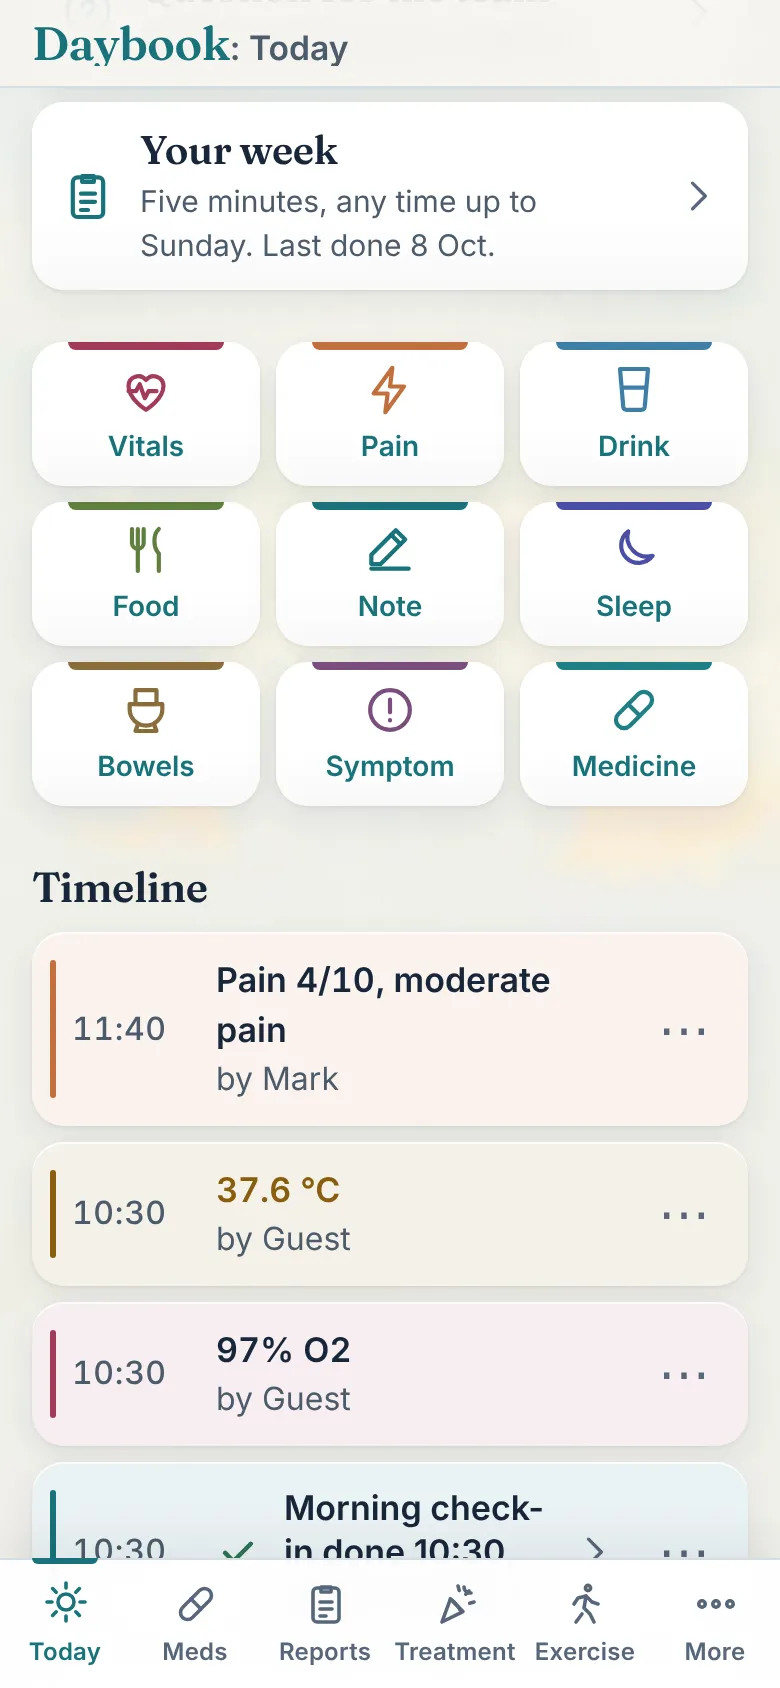
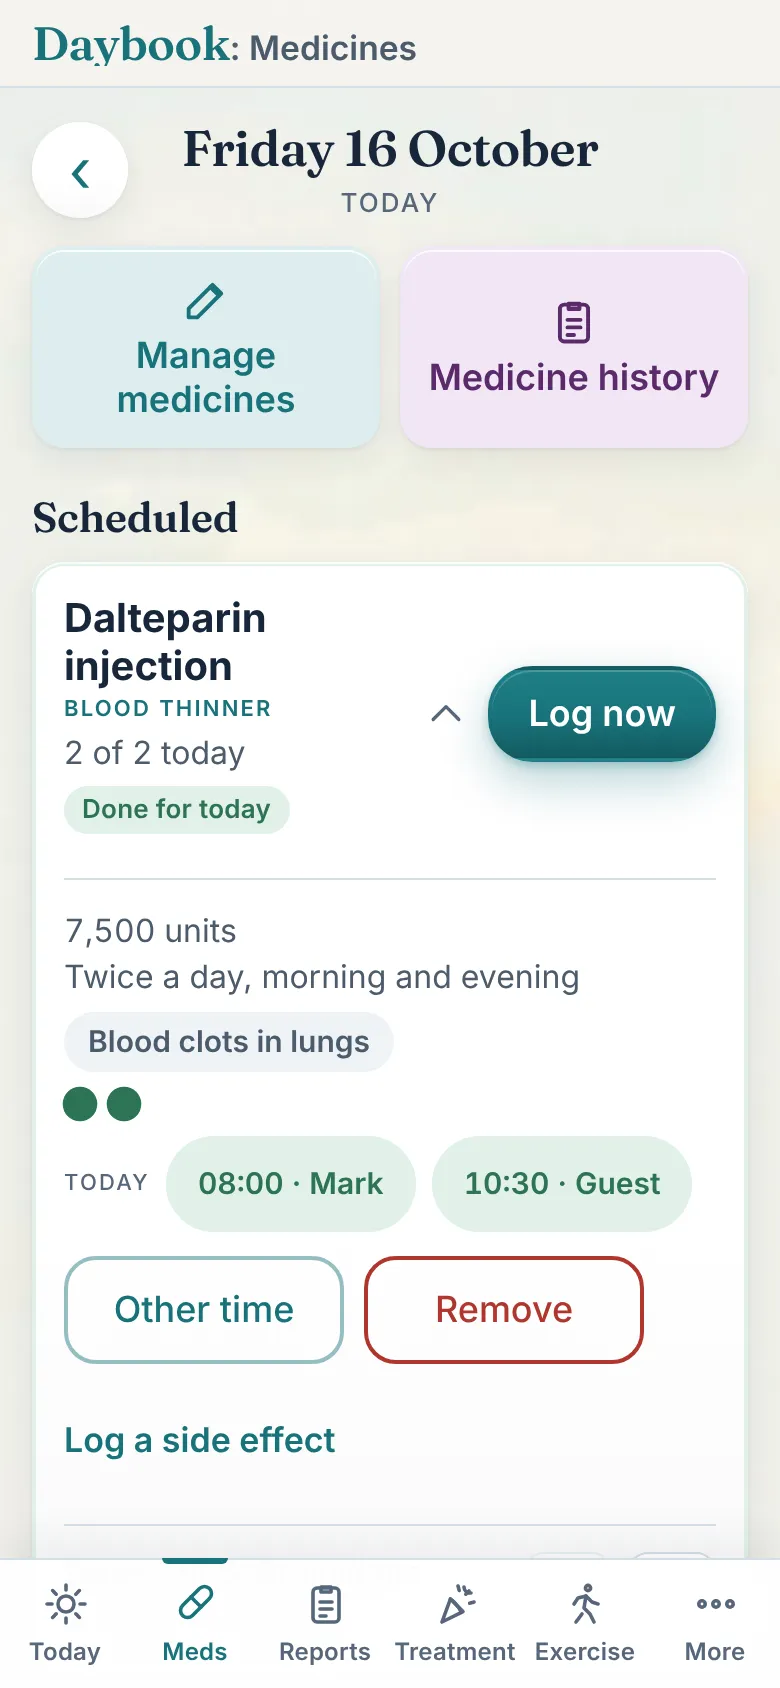
v305: a Mood tile in place of Medicine on Today
Logs a mood score between the check-ins, with a note; hollow points on
the Trends Mood chart. Doses are logged on the Meds tab. Guide retaken.

Claude-Session: https://claude.ai/code/session_019VY17MM1Pv81B6vJUTKu9b

Changed region(s): [[0.0308, 0.0, 0.9538, 0.9858], [0.2154, 0.9242, 0.2769, 0.9858], [0.9538, 0.4005, 0.9846, 0.4621]]

diff --git a/scripts.js b/scripts.js
@@ -13,7 +13,7 @@ import {
   query, where, orderBy, limit, onSnapshot, serverTimestamp, Timestamp, writeBatch, deleteField, runTransaction
 } from 'https://www.gstatic.com/firebasejs/10.12.2/firebase-firestore.js';
 
-const APP_VERSION = '304';
+const APP_VERSION = '305';
 /* The stage of the app (v132): 'Beta' until it is on the App Store and Google Play, then ''. Shown as a small pill on the
    opener and the four cover screens (never in the topbar, where it squeezed "Daybook: Treatment plan" off the end at 390px),
    after the version everywhere the version shows, and as one line on the App card and About
@@ -3003,6 +3003,7 @@ function entryTitle(e) {
     case 'nap': return [h('span', { class: 'val', text: fmtHm(e.value) }), h('span', { text: ' nap' })];
     case 'checkin': return [h('span', { text: checkinTitle(e.slot) })];
     case 'pain': return [h('span', { class: 'val', text: 'Pain ' + e.value + '/10' }), painBandWord(e.value) ? h('span', { text: ', ' + painBandWord(e.value).toLowerCase() }) : null];
+    case 'mood': return [h('span', { class: 'val', text: 'Mood ' + e.value + '/10' })];
     case 'symptom': return [h('span', { class: 'val', text: symptomLevel(e) }), e.grade == null && painBandWord(e.value, '') ? h('span', { text: ', ' + painBandWord(e.value, '').toLowerCase() }) : null];
     case 'bowel': {
       if (e.none) return [h('span', { text: e.stoma ? 'No stoma output' : 'No bowel movement' })];
@@ -3052,6 +3053,7 @@ function entrySub(e) {
   if (e.type === 'nap') { const d0 = entryDate(e); if (d0) bits.push(fmtTime(d0) + ' to ' + addMinutesHm(fmtTime(d0), e.value)); bits.push('A nap, kept apart from the night'); if (e.note) bits.push(e.note); }
   if (e.type === 'checkin') { const s = checkinSummary(e); if (s) bits.push(s); }
   if (e.type === 'pain' && e.note) bits.push(e.note);
+  if (e.type === 'mood') { bits.push('Logged between the check-ins'); if (e.note) bits.push(e.note); }
   if (e.type === 'symptom') { const c = causeOf(e); bits.push(c ? 'Side effect of ' + c.name + (e.sessionDay ? ' on ' + fmtDayShort(e.sessionDay) : '') : 'Symptom'); if (e.fromCheckin) bits.push('From the ' + slotWord(e.fromCheckin).toLowerCase() + ' check-in'); if (e.note) bits.push(e.note); }
   if (e.type === 'bowel') { const ts = bowelTypes(e); if (ts.length > 1) bits.push(ts.map((t) => bristolName(t)).join(', ')); const f = bowelFlagWords(e); if (f) bits.push(f); if (e.note) bits.push(e.note); }
   if (e.type === 'question') bits.push((isDietitianQ(e) ? 'Question for the dietitian' : isWellbeingQ(e) ? 'Question for the therapist' : isPainQ(e) ? 'Question for the pain team' : packOn('ibd') && isGastroQ(e) ? 'Question for the gastro team' : 'Question for the team') + (e.answered ? ', answered' : '') + (isDietitianQ(e) || isWellbeingQ(e) || isPainQ(e) ? '' : ' · ' + teamLabel(teamOf(e))));
@@ -3094,7 +3096,7 @@ function renderEntry(e) {
 }
 
 /* Types openAdd() can pre-fill and update in place, given the original entry */
-const EDITABLE_ENTRY_TYPES = ['food', 'drink', 'weight', 'note', 'question', 'bowel', 'symptom', 'pain', 'result', 'nap'];
+const EDITABLE_ENTRY_TYPES = ['food', 'drink', 'weight', 'note', 'question', 'bowel', 'symptom', 'pain', 'mood', 'result', 'nap'];
 
 function entryOptions(e) {
   const d = entryDate(e);
@@ -3126,7 +3128,7 @@ function entryOptions(e) {
   );
   openSheet(ENTRY_SHEET_TITLES[e.type] || 'Entry', body);
 }
-const ENTRY_SHEET_TITLES = { call: 'Call', result: 'Result', temp: 'Temperature', vitals: 'Vitals', weight: 'Weight', med: 'Medicine', drink: 'Drink', food: 'Food', note: 'Note', sleep: 'Sleep', nap: 'Nap', pain: 'Pain', bowel: 'Bowels', symptom: 'Symptom', question: 'Question for the team' };
+const ENTRY_SHEET_TITLES = { call: 'Call', result: 'Result', temp: 'Temperature', vitals: 'Vitals', weight: 'Weight', med: 'Medicine', drink: 'Drink', food: 'Food', note: 'Note', sleep: 'Sleep', nap: 'Nap', pain: 'Pain', mood: 'Mood', bowel: 'Bowels', symptom: 'Symptom', question: 'Question for the team' };
 /* One line per reading for the entry view, coloured with the same levels as Trends' tables */
 function readingRows(e) {
   if (e.type === 'temp') return [['Temperature', fmtTemp(e.value), tempClass(e.value) === 'is-red' ? 'red' : tempClass(e.value) === 'is-amber' ? 'amber' : null]];
@@ -4327,6 +4329,20 @@ function openAdd(type, editEntry, preset) {
     };
   }
 
+  /* Mood (v305): a mood score any time between the check-ins, like the Pain tile. Mark: "Meds has
+     its own tab", so this tile took the Medicine one's place on Today. */
+  if (type === 'mood') {
+    const sl = sliderBlock({ kind: 'slider', q: 'How is your mood right now?', low: '1 rough', high: '10 great' }, editEntry ? editEntry.value : null);
+    const moodNote = h('textarea', { rows: 3, placeholder: 'e.g. a good chat, worried about tomorrow' });
+    moodNote.value = (editEntry && editEntry.note) || '';
+    body.append(h('p', { class: 'wiz-q', text: 'How is your mood right now?' }), ...sl.nodes, field('Time', time), field('What is behind it? (optional)', moodNote), ...[speakButton(moodNote)].filter(Boolean));
+    getData = () => {
+      const v = sl.value();
+      if (v == null) return missing(sl.nodes.find((n) => n.type === 'range') || sl.nodes[0], 'Slide to a number first');
+      return { type: 'mood', value: v, note: moodNote.value.trim() };
+    };
+  }
+
   if (type === 'bowel') {
     /* The Bristol Stool Chart (the scale every nurse knows) as seven rows, one tap; the extras the
        24-hour triage lines ask about as tick chips; and a way to record a day with none, since
@@ -4753,7 +4769,7 @@ function openAdd(type, editEntry, preset) {
     };
   }
 
-  const titles = { drink: 'Drink', food: 'Food', weight: 'Weight', note: 'Note', vitals: 'Vitals', sleep: 'Sleep', nap: 'Nap', question: 'Question for the team', pain: 'Log pain', bowel: 'Bowels', symptom: 'Symptom' };
+  const titles = { drink: 'Drink', food: 'Food', weight: 'Weight', note: 'Note', vitals: 'Vitals', sleep: 'Sleep', nap: 'Nap', question: 'Question for the team', pain: 'Log pain', mood: 'Mood', bowel: 'Bowels', symptom: 'Symptom' };
   const save = h('button', { class: 'btn btn-primary btn-block', type: 'button' }, 'Save');
   save.addEventListener('click', async () => {
     const data = getData();
@@ -4814,7 +4830,7 @@ function openAdd(type, editEntry, preset) {
   if (onSaveReady) onSaveReady(save);
   body.dataset.draft = editId || 'new';
   if (!editId && (type === 'note' || type === 'question' || type === 'vitals')) body.dataset.reopen = type;
-  openSheet(editId && type === 'vitals' ? (editEntry.type === 'temp' ? 'Edit temperature' : 'Edit vitals') : editId && type === 'pain' ? 'Edit pain' : titles[type], body);
+  openSheet(editId && type === 'vitals' ? (editEntry.type === 'temp' ? 'Edit temperature' : 'Edit vitals') : editId && type === 'pain' ? 'Edit pain' : editId && type === 'mood' ? 'Edit mood' : titles[type], body);
   if (foodGuard) state.sheetGuard = foodGuard;
 }
 
@@ -12949,10 +12965,14 @@ async function renderVitals() {
   });
 
   const ciMood = entries.filter((e) => isPatientCheckin(e) && e.mood != null).map((e) => ({ x: entryDate(e).getTime(), y: Number(e.mood) }));
+  const spotMood = entries.filter((e) => e.type === 'mood' && e.value != null).map((e) => ({ x: entryDate(e).getTime(), y: Number(e.value) }));
   makeChart('mood', {
     type: 'line',
-    data: { datasets: [lineSeries(T, T.teal, ciMood, { label: 'Mood' })] },
-    options: lineOptions(tenScale(), { title: pointTitle, label: (item) => item.raw.y + '/10' }, false, ciMood.length)
+    data: { datasets: [
+      lineSeries(T, T.teal, ciMood, { label: 'Check-in' }),
+      { label: 'Logged between', data: spotMood, borderColor: T.warm, backgroundColor: T.surface, pointBackgroundColor: T.surface, pointBorderColor: T.warm, pointRadius: 4, pointHoverRadius: 7, pointBorderWidth: 2, pointHitRadius: 12, showLine: false, fill: false }
+    ] },
+    options: lineOptions(tenScale(), { title: pointTitle, label: (item) => item.dataset.label + ': ' + item.raw.y + '/10' }, !!spotMood.length, ciMood.length)
   });
 }
 

diff --git a/tools/guide_shots.js b/tools/guide_shots.js
@@ -60,8 +60,8 @@ const QUALITY = 0.8;
   for (const f of fs.readdirSync(OUT)) if (f.endsWith('.webp')) fs.unlinkSync(path.join(OUT, f));
 
   /* 1. a reading */
-  begin('reading', 'Log a reading', 'Vitals, pain, a drink, food, a note, sleep, bowels, a symptom or a dose, from Today.', 'Everything between the check-ins is logged from the tiles on Today, in the same way.');
-  await shot('On Today, tap Vitals. The other tiles log pain, a drink, food, a note, sleep, bowels, a symptom or a dose the same way.', '.qa[data-add="vitals"]');
+  begin('reading', 'Log a reading', 'Vitals, pain, a drink, food, a note, sleep, bowels, a symptom or how you feel, from Today.', 'Everything between the check-ins is logged from the tiles on Today, in the same way.');
+  await shot('On Today, tap Vitals. The other tiles log pain, a drink, food, a note, sleep, bowels, a symptom or your mood the same way.', '.qa[data-add="vitals"]');
   await page.click('.qa[data-add="vitals"]'); await page.waitForSelector('#sheet:not([hidden])');
   await shot('Type the readings you have. Any box can be left empty, and the time is filled in for you.', '#sheet-body .bigvalue input');
   await page.fill('#sheet-body .bigvalue input', '37.6');
@@ -103,19 +103,13 @@ const QUALITY = 0.8;
   await shot('Done. The check-in is a card on Today: tap it to open it, and Edit to change an answer later.', '#checkin-morning-card .cc-head');
 
   /* 3. medicines */
-  begin('meds', 'Medicines and reminders', 'Log a dose, see what is due, set reminder times.', 'The Meds tab is the list; the Medicine tile on Today is the quick way to log a dose.');
+  begin('meds', 'Medicines and reminders', 'Log a dose, see what is due, set reminder times.', 'Every dose is logged on the Meds tab: Log now, or Other time for a dose taken earlier.');
   await tab('meds');
   await shot('The Meds tab lists today\'s medicines, each with how many doses are done. Tap Log now when one is taken.', '#meds-scheduled .med-log');
   await page.click('#meds-scheduled .med-log'); await settle(700);
   await page.click('#meds-scheduled .med-toggle'); await settle(500);
   await shot('Logged: the line counts it, and the name opens the card with the time of each dose, Other time, Remove and Log a side effect. A when-needed medicine says when the next dose can be given.');
   await shot('The arrows at the foot of an open card, or holding the name for a second and sliding it, put the list in your own order.', '#meds-scheduled .med-order');
-  await tab('today');
-  await shot('From Today, the Medicine tile logs a dose without leaving the screen.', '.qa[data-add="medicine"]');
-  await page.click('.qa[data-add="medicine"]'); await page.waitForSelector('#sheet:not([hidden])');
-  await shot('Tap the medicine taken. When-needed ones come first, with whether they can be given now.');
-  await closeSheet();
-  await tab('meds');
   await shot('Manage medicines adds one, changes a dose or the times it is taken. Reminders arrive as notifications once they are switched on under Settings.', '#meds-manage');
   await page.click('#meds-manage'); await page.waitForSelector('#sheet:not([hidden])');
   await shot('Add a medicine sits at the top. Under it, every medicine on the list, with what it is for and Edit. A finished course keeps its history under Medicine history.', '#sheet-body .medrow:has-text("Diazepam") button');
@@ -259,10 +253,11 @@ const QUALITY = 0.8;
   await shot('How you slept, anything new overnight, pain and mood. Slide to the score, or Tap to speak for the words.', '#sheet-body .btn-next');
   await toReview();
   await page.click('#sheet-body .btn-primary:has-text("Save")'); await settle(700);
-  await shot('Saved as a card. Through the day the tiles log a dose, a drink, a meal, a symptom or a bowel movement in a few taps.', '.qa[data-add="medicine"]');
-  await page.click('.qa[data-add="medicine"]'); await page.waitForSelector('#sheet:not([hidden])'); await settle();
-  await shot('A dose is one tap on the medicine. When-needed ones say whether the next can be given yet.', '#sheet-body .doserow');
-  await page.click('#sheet-body .doserow >> nth=-1'); await settle(700);
+  await shot('Saved as a card. Through the day the tiles log a drink, a meal, how you feel, a symptom or a bowel movement in a few taps.', '.qa[data-add="mood"]');
+  await page.click('.qa[data-add="mood"]'); await page.waitForSelector('#sheet:not([hidden])'); await settle();
+  await slider('#sheet-body input[type="range"]', 7);
+  await shot('The Mood tile logs how you feel right now, between the check-ins. Doses are logged on the Meds tab.', '#sheet-body .btn-primary');
+  await page.click('#sheet-body .btn-primary'); await settle(700);
   if (await page.$('#sheet:not([hidden])')) await closeSheet();
   await shot('A question comes to you at 3am. Write it down and it waits for the appointment.', '#question-now');
   await page.click('#question-now'); await page.waitForSelector('#sheet:not([hidden])'); await settle();

diff --git a/index.html b/index.html
@@ -17,7 +17,7 @@
   <link rel="preconnect" href="https://fonts.googleapis.com">
   <link rel="preconnect" href="https://fonts.gstatic.com" crossorigin>
   <link href="https://fonts.googleapis.com/css2?family=Fraunces:opsz,wght@9..144,500;9..144,600;9..144,700&family=Inter:wght@400;500;600;700&display=swap" rel="stylesheet">
-  <link rel="stylesheet" href="styles.css?v=304">
+  <link rel="stylesheet" href="styles.css?v=305">
 </head>
 <body>
   <a class="skip-link" href="#main">Skip to content</a>
@@ -50,6 +50,7 @@
     <symbol id="i-mic" viewBox="0 0 24 24"><rect x="9" y="3" width="6" height="11" rx="3"/><path d="M5 11a7 7 0 0 0 14 0"/><path d="M12 18v3M8.5 21h7"/></symbol>
     <symbol id="i-question" viewBox="0 0 24 24"><circle cx="12" cy="12" r="9"/><path d="M9.6 9.6a2.4 2.4 0 1 1 3.4 2.2c-.7.4-1 .9-1 1.7"/><path d="M12 16.6h.01"/></symbol>
     <symbol id="i-bowel" viewBox="0 0 24 24"><path d="M7.5 3.5h9v6h-9z"/><path d="M5 9.5h14v2.2a7 7 0 0 1-14 0z"/><path d="M8.5 18.3L7.5 21h9l-1-2.7"/></symbol>
+    <symbol id="i-mood" viewBox="0 0 24 24"><circle cx="12" cy="12" r="8.5"/><path d="M8.5 14.2c1 1.3 2.2 1.9 3.5 1.9s2.5-.6 3.5-1.9"/><path d="M9 9.8v.2"/><path d="M15 9.8v.2"/></symbol>
     <symbol id="i-symptom" viewBox="0 0 24 24"><circle cx="12" cy="12" r="8.5"/><path d="M12 7.5v5.5"/><path d="M12 16.3v.2"/></symbol>
     <symbol id="i-expand" viewBox="0 0 24 24"><path d="M14 4h6v6"/><path d="M20 4l-7 7"/><path d="M10 20H4v-6"/><path d="M4 20l7-7"/></symbol>
     <symbol id="i-edit" viewBox="0 0 24 24"><path d="M4 20h4L19 9l-4-4L4 16z"/><path d="M14 6l4 4"/></symbol><symbol id="i-shrink" viewBox="0 0 24 24"><path d="M20 10h-6V4"/><path d="M14 10l7-7"/><path d="M4 14h6v6"/><path d="M10 14l-7 7"/></symbol>
@@ -312,7 +313,7 @@
             <button class="qa" type="button" data-add="sleep"><svg class="icon qa-icon" aria-hidden="true"><use href="#i-moon"/></svg>Sleep</button>
             <button class="qa" type="button" data-add="bowel"><svg class="icon qa-icon" aria-hidden="true"><use href="#i-bowel"/></svg>Bowels</button>
             <button class="qa" type="button" data-add="symptom"><svg class="icon qa-icon" aria-hidden="true"><use href="#i-symptom"/></svg>Symptom</button>
-            <button class="qa" type="button" data-add="medicine"><svg class="icon qa-icon" aria-hidden="true"><use href="#i-pill"/></svg>Medicine</button>
+            <button class="qa" type="button" data-add="mood"><svg class="icon qa-icon" aria-hidden="true"><use href="#i-mood"/></svg>Mood</button>
           </div>
         </div>
 
@@ -1214,6 +1215,6 @@
   </div>
 
   <script src="config.js"></script>
-  <script type="module" src="scripts.js?v=304"></script>
+  <script type="module" src="scripts.js?v=305"></script>
 </body>
 </html>

diff --git a/styles.css b/styles.css
@@ -759,6 +759,7 @@ input[type="range"].slider.is-pain::-moz-range-track { background: linear-gradie
 .entry.type-sleep { --cat: var(--cat-sleep); }
 .entry.type-checkin { --cat: var(--teal); }
 .entry.type-pain { --cat: var(--warm); }
+.entry.type-mood { --cat: var(--teal-fill); }
 .entry.type-question { --cat: var(--teal); }
 .entry.type-sent { --cat: var(--teal); }
 /* an email address in a hint or on the legal pages breaks rather than pushing a 320px screen sideways (v159) */
@@ -1601,6 +1602,7 @@ body.is-readonly .workout .btn { display: none; }
 .qa[data-add="bowel"] { --qa-c: var(--cat-bowel); }
 .qa[data-add="symptom"] { --qa-c: var(--cat-symptom); }
 .qa[data-add="medicine"] { --qa-c: var(--teal-fill); }
+.qa[data-add="mood"] { --qa-c: var(--teal-fill); }
 /* The plain reading tiles take the report's soft teal, so no tile is grey */
 .status .tile { background: var(--teal-light); border-top-color: var(--teal-fill); }
 /* Headings in the report's serif read best a touch tighter and in ink */

diff --git a/CLAUDE.md b/CLAUDE.md
@@ -26,6 +26,9 @@ When Mark asks for a change that could be read more than one way, or that would 
 ## Licence
 `LICENSE` (since v68): **copyright Mark 1 Apps Ltd** since v151 (company number 17510025, registered in England and Wales, 9 October 2026; Shelley and Mark directors). Mark Brown created Daybook and assigned the code, the names, the artwork, the domains and the Mark 1 Apps name and mark to the company by a Deed of Assignment dated 10 October 2026, signed by Mark, by Shelley for the company and before an independent witness, after a written resolution of both shareholders approving it; the originals are kept with the company papers, never in the repo. The LICENSE, README, the terms' copyright paragraph (dated 10 October 2026), About's licence line, the opener and the Settings card all read "Copyright 2026 Mark 1 Apps Ltd"; About still says Daybook was made by Mark Brown, which the deed allows (clause 4). The code is published to be read (the repository has to be public for GitHub Pages, and a web app hands its code to every browser anyway), not copied, hosted or built on; the name, strapline, artwork and the Mark 1 Apps mark are reserved too. Third-party parts keep their own licences (CoFID under the Open Government Licence, the CDN libraries and the fonts under theirs). The notice also appears on the Settings App card, in `README.md` and in the pitch footer. Copyright is automatic; the file removes the "I assumed it was open source" excuse. The LICENSE names "My Medical Daybook (Daybook)". A trade mark application for the full name is a roadmap item for when the app goes to the stores; a descriptive phrase like this is hard to register and hard for anyone else to register, which is part of why it was chosen.
 
+## A Mood tile in place of Medicine on Today (v305, 24 October 2026)
+Mark: "remove the meds tiles on Today ... Meds has its own tab"; asked which, he chose the grid's **Medicine** button only (the Doses status tile at the top stays), replaced by a tile that logs mood now; first named Wellbeing and Mood, then "it's actually just mood". The ninth quick-add button is **Mood** (`data-add="mood"`, new icon `#i-mood`): `openAdd('mood')`, titled Mood (Edit mood when editing), **How is your mood right now?** on the 1 to 10 slider (1 rough, 10 great; an untouched slider is Missing information), Time, **What is behind it? (optional)** with Tap to speak. Saved as `entries/{autoId}` { type "mood", value, note }; timeline "Mood 3/10", "Logged between the check-ins · note" (`.entry.type-mood`), editable from its "..." (`EDITABLE_ENTRY_TYPES`). The Trends Mood chart shows them as hollow points beside the check-in line ("Logged between"), like the Pain tile's readings. **Not counted** in the reports' mood averages, tiles or charts, which still read the check-ins only; the viewer role cannot read the type. `openDoseSheet()` stays in the code (nothing opens it from Today now). The Guide's Medicines topic lost its Medicine tile steps and the story's dose step became the Mood tile; retaken and copied to the website. Tested in the scratchpad's `h/t30.cjs` (nine buttons with Mood last and no Medicine, the label fitting at 320, the Doses tile kept, the sheet, an empty slider refused, saved with its note, the timeline, Edit filled in and saved as one entry, no sideways scroll, 390 light and 320 dark, no page errors). Not in What's new yet: wording for Mark.
+
 ## Four report ranges: 1 week, 2 weeks, 1 month, Custom (v303, 24 October 2026)
 Mark, on the Mood report's range row: "These are bonkers timings we only need 1 and 2 maybe last month and then custom." Every report's range row (Notes for the team, Food diary, Mood and wellbeing, Pain and pain relief, Crohn's and colitis) is now **1 week** (7), **2 weeks** (14), **1 month** (the last 30 days) and **Custom**; 4 weeks, 8 weeks and 90 days went. **v304 (Mark: "default the lowest"): every report opens on 1 week** (`state.foodRange`, `notesRange`, `moodRange`, `painRange`, `ibdRange` all 7, the 1 week button pressed in each). Notes for the team's masthead reads "Month to ..." for 30 days. Custom still allows up to 180 days. The Trends charts' own row (1 week, 2 weeks, 30 days) is not a report and is unchanged. The Guide was retaken (the report frames show the new row) and copied to the website. Tested in the scratchpad's `h/t29.cjs` (the four buttons and defaults on all five reports, 1 month giving 30 days, Custom's box, 44px, no sideways scroll, 390 light and 320 dark, no page errors) and `h/t29b.cjs` (Pain, Mood, Food and Crohn's previews at 1 week and 1 month, nothing failing to fit).
 
